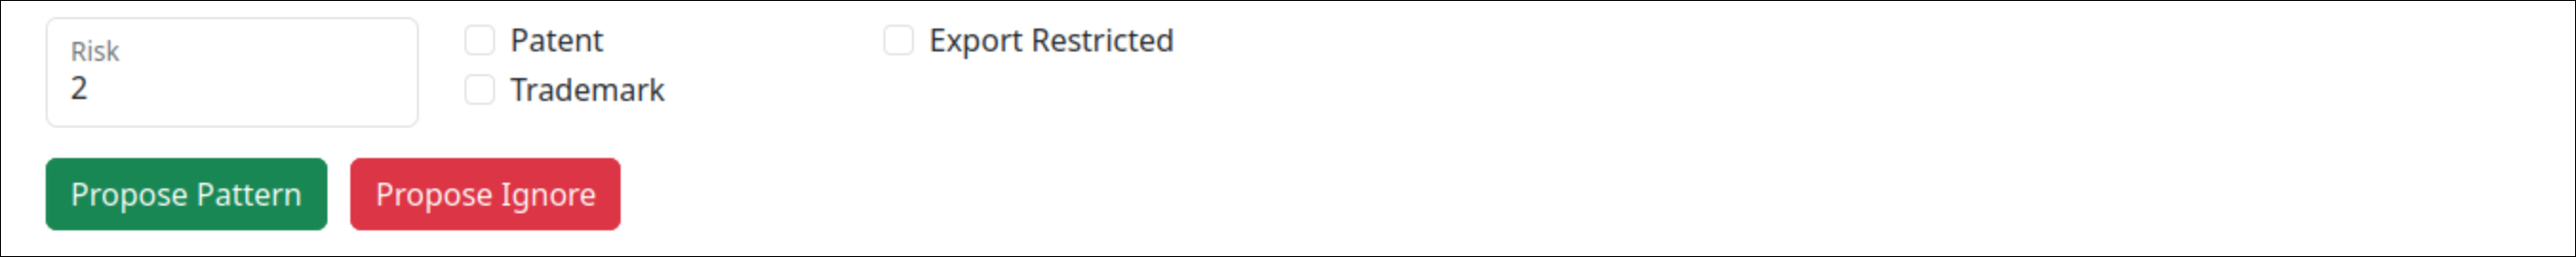
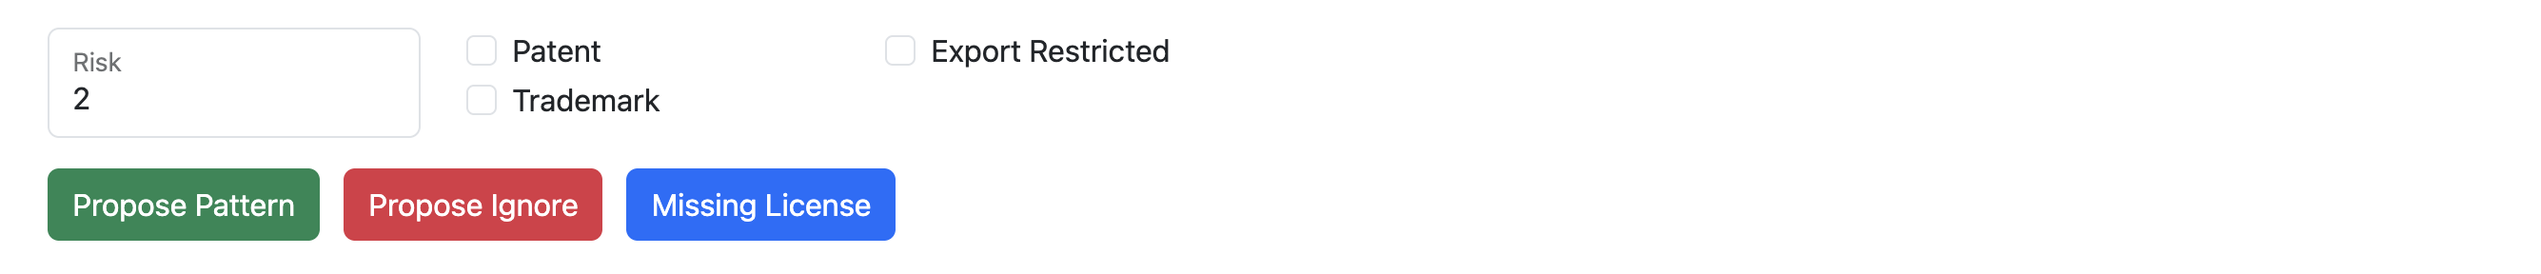
Document risk assessment feature

diff --git a/docs/Contributors.md b/docs/Contributors.md
@@ -112,8 +112,9 @@ Once you are satisfied, just click on the "Propose Pattern" button and you are d
 
 ![Select License](images/contrib-8b-ignore.png)
 
-For unedited patterns there will also be a "Propose Ignore" button that you can use to propose an ignore pattern
-instead. Or after you have already created a license pattern for part of the snippet and just want to ignore the rest.
+For unedited patterns there will also be "Propose Ignore" and "Missing License" buttons. These can be used to propose
+an ignore pattern or to report completely new licenses. Ignore patterns may also be used after you have already created
+a license pattern for part of the snippet and just want to ignore the rest.
 
 ![Done](images/contrib-9-done.png)
 
@@ -126,7 +127,7 @@ This is the workflow admins use to review proposed license patterns and decide i
 
 ### Proposed Changes
 
-Every time there is a proposal waiting for approval you will see a blue badge in the "logged in as ..." menu. Just
+Every time there is a proposal waiting for approval you will see a gray badge in the "logged in as ..." menu. Just
 click on "Change Proposals" to start reviewing them. Once approved you can check their performance by clicking on
 "Pattern Performance".
 
@@ -144,6 +145,44 @@ result in immediate reindexing of the relevant packages.
 If ignore patterns are present in the proposals, it is often a good idea to look for related pattern proposals as well,
 since it can be a lot easier to review them together. They will all be for the same package, since contributors can
 only create package specific ignore patterns.
+
+### Missing Licenses
+
+And every time a contributor reports an entirely new license or license combination for risk assessment, you will see
+a red badge in the "logged in as ..." menu. Click on "Missing Licenses" to start the risk assessment.
+
+![Notification](images/contrib-admin-1b-notification.png)
+
+The "Edit Pattern" button will open a new window with the standard pattern editor. Here you can edit the pattern, pick
+a license identifier, and assign a numeric legal risk between `0` and `9`. The file and package the snippet originated
+from will be linked at the top to allow for more in depth research. Whenever possible we recommend using a standard
+[SPDX license identifier](https://spdx.org/licenses/). Once the new license pattern has been created the risk
+assessment is finished and you can click "Dismiss" to remove the report from the missing license list. Reports for
+affected packages will be automatically regenerated.
+
+![Missing Licenses](images/contrib-admin-3-missing.png)
+
+Here are some example risk assessments for very common licenses:
+```
+Low risk licenses (auto-accepted)
+0: Public Domain
+1: MIT, BSD-2-clause
+2: GPL-2.0-or-later, Artistic-2.0
+3: Apache-2.0, AGPL-3.0-or-later
+
+Higher risk licenses
+4: CDDL-1.0, MPL-1.1, Any EULA
+5: CC-BY-NC-ND-1.0, SSPL-1.0
+6: Any Proprietary
+
+Unknown risk (reserved)
+9: Keyword patterns
+```
+
+Risk values `0` to `3` are considered low risk, and allow for reviews to be auto accepted if a previous report has been
+reviewed by a human, and it contains only low risk licenses. Risks `4` to `8` are classified as high risk and will only
+allow for reviews to be auto-accepted when there have been no licensing changes since the last review. Risk `9` is
+reserved for keywords used to identify legally relevant text.
 
 ### Pattern Performance
 
